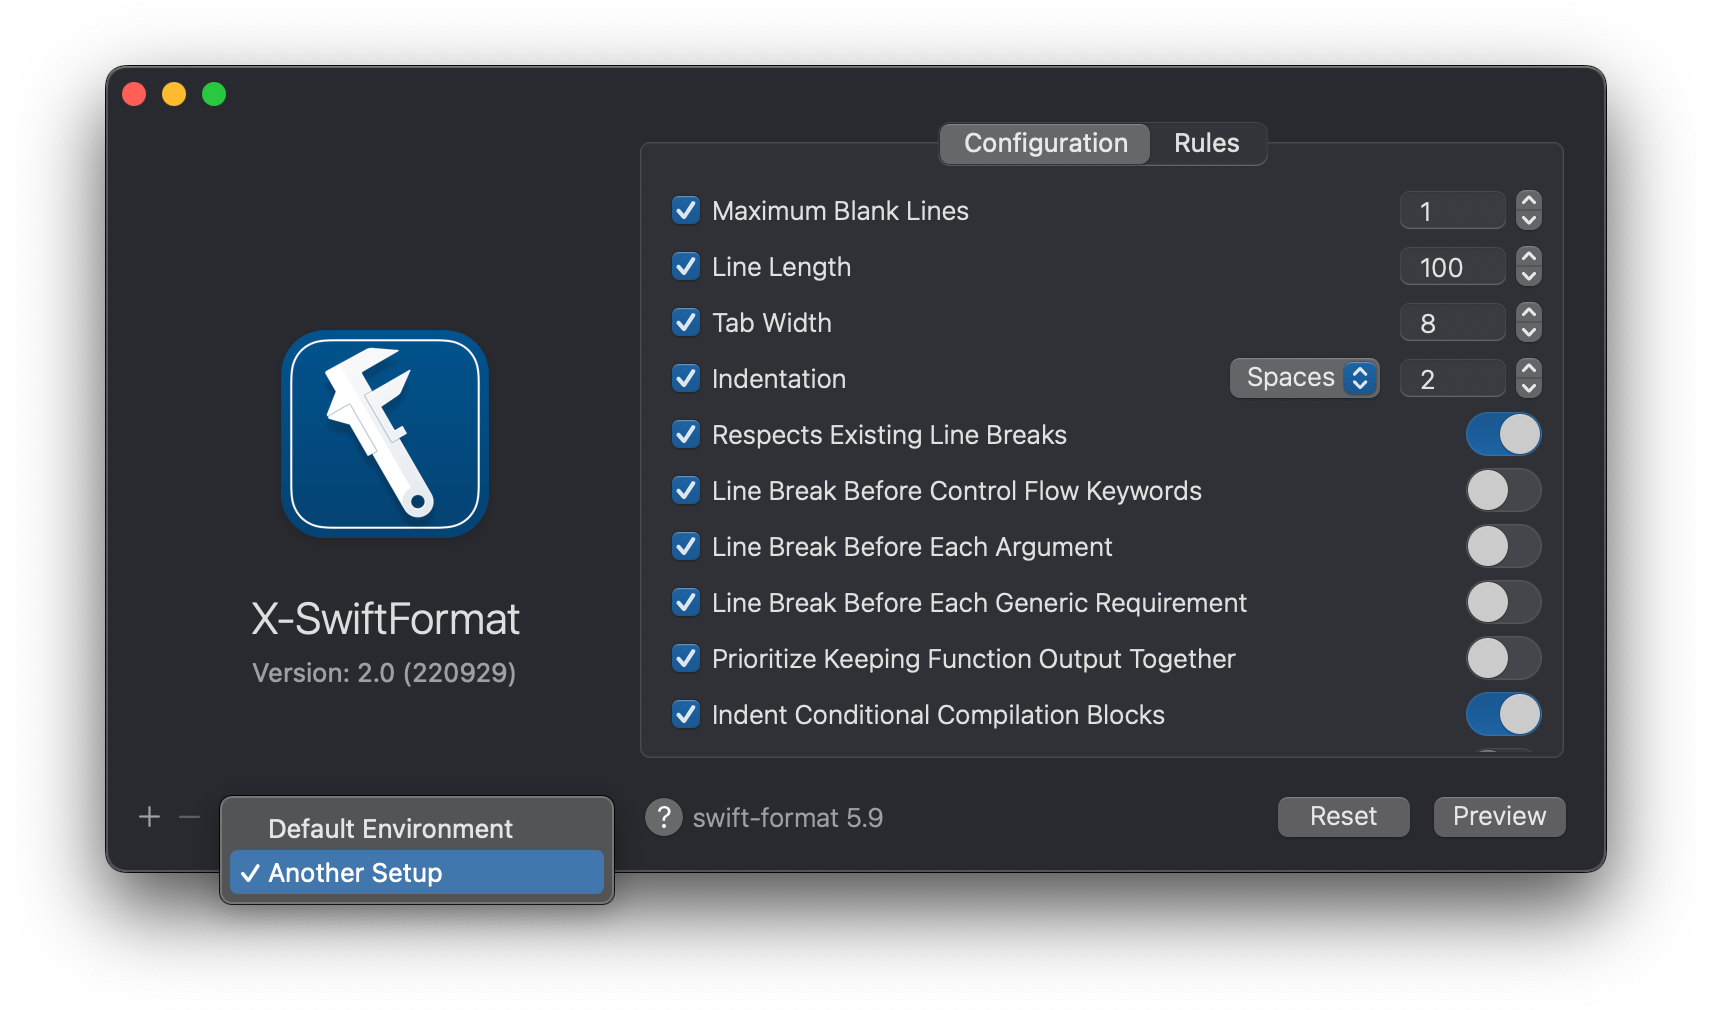
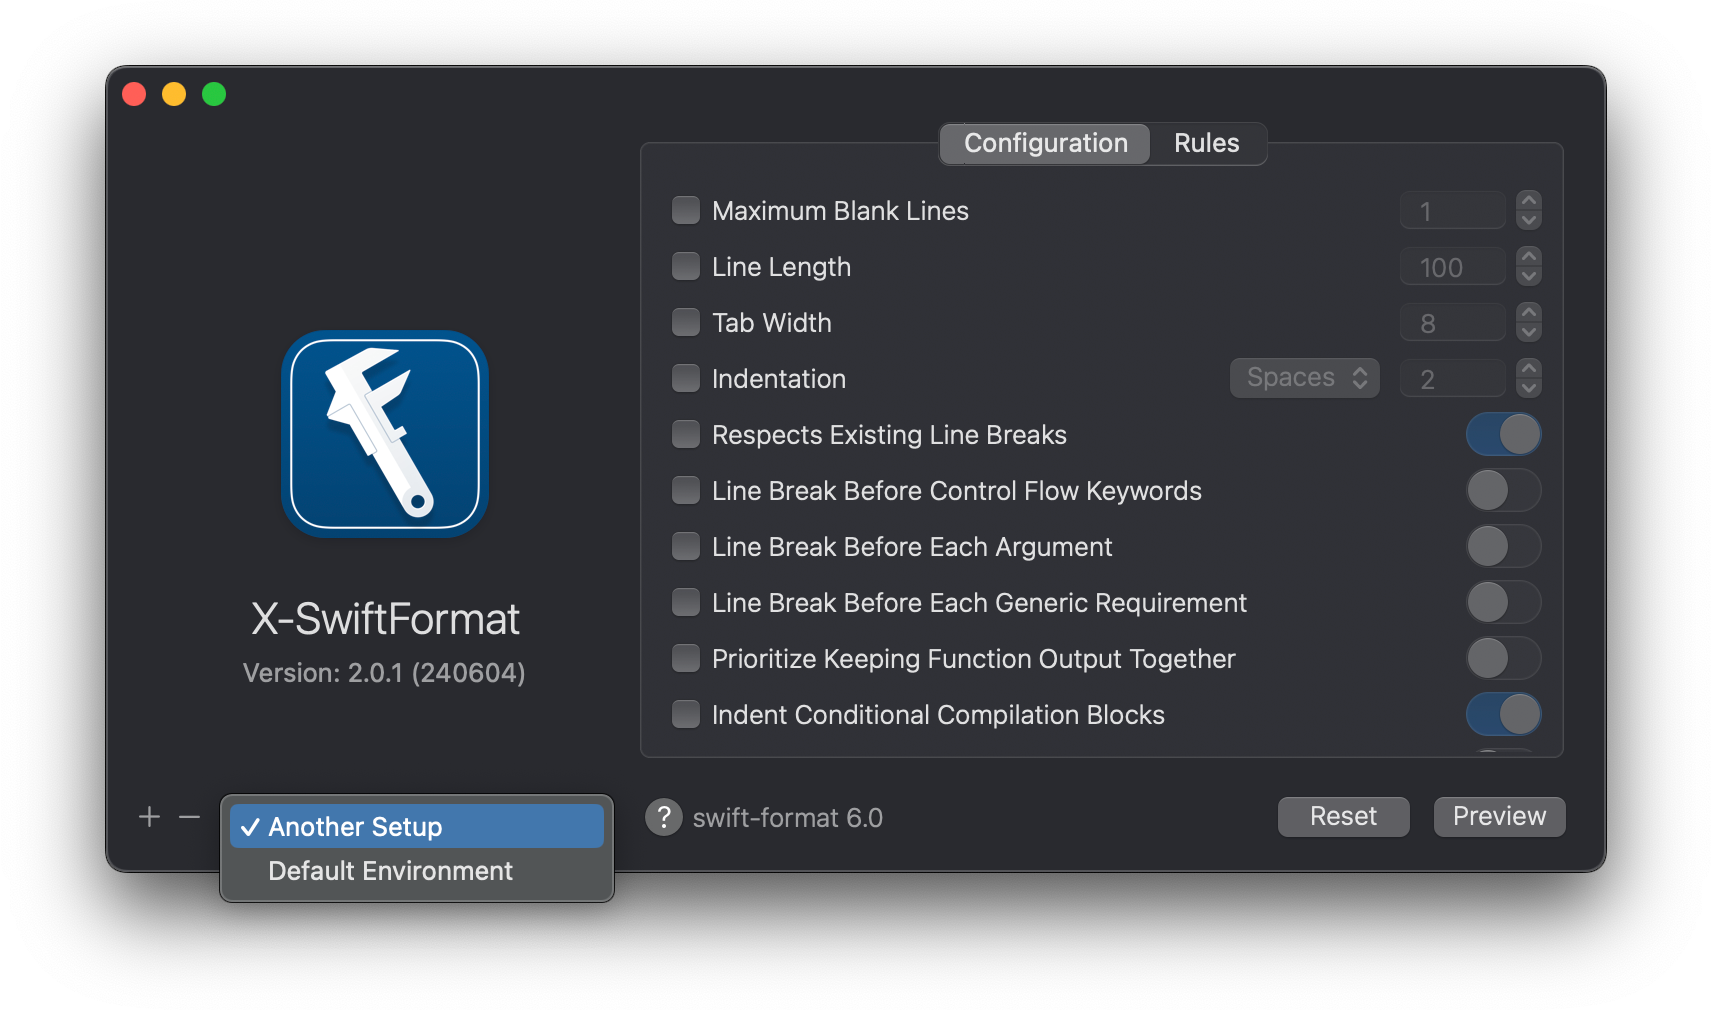
Version 2.0.1

diff --git a/x-swiftformat/X-SwiftFormat-Extension/Source/commands/SourceEditorCommand.swift b/x-swiftformat/X-SwiftFormat-Extension/Source/commands/SourceEditorCommand.swift
@@ -43,7 +43,7 @@ class SourceEditorCommand: NSObject, XCSourceEditorCommand {
 			let configuration = Configuration.buildConfiguration(with: sharedConfiguration.payload)
 			let swiftFormatter = SwiftFormatter(configuration: configuration)
 			var swiftFormatOutputStream = SwiftFormatOutputStream()
-			
+
 			do {
 				try swiftFormatter.format(source: invocation.buffer.completeBuffer, assumingFileURL: nil, to: &swiftFormatOutputStream)
 				if let output = swiftFormatOutputStream.output, invocation.buffer.completeBuffer != output {
@@ -51,9 +51,7 @@ class SourceEditorCommand: NSObject, XCSourceEditorCommand {
 					// Remove all selections to avoid a crash when changing the contents of the buffer.
 					let selections = invocation.buffer.selections.compactMap { $0 as? XCSourceTextRange }
 					invocation.buffer.selections.removeAllObjects()
-					
 					invocation.buffer.completeBuffer = output
-					
 					// Restore selections
 					selections.forEach { selection in
 						invocation.buffer.selections.add(XCSourceTextRange(start: selection.start, end: selection.end))

diff --git a/x-swiftformat/X-SwiftFormat/Source/constants/Constants.swift b/x-swiftformat/X-SwiftFormat/Source/constants/Constants.swift
@@ -4,19 +4,19 @@ import Cocoa
  * swift-format https://github.com/apple/swift-format
  */
 
-let kSwiftFormatVersion = "5.9"
-let kSwiftFormatName = "swift-format 5.9"
+let kSwiftFormatVersion = "6.0"
+let kSwiftFormatName = "swift-format 6.0"
 let kSwiftFormatDescription = "Formatting technology for Swift source code"
-let kSwiftFormatURL = "https://github.com/apple/swift-format/tree/release/5.9"
+let kSwiftFormatURL = "https://github.com/apple/swift-format/tree/release/6.0"
 
 /*
  * swift-syntax https://github.com/apple/swift-syntax
  */
 
-let kSwiftSyntaxVersion = "5.9"
-let kSwiftSyntaxName = "swift-syntax 5.9"
+let kSwiftSyntaxVersion = "6.0"
+let kSwiftSyntaxName = "swift-syntax 6.0"
 let kSwiftSyntaxDescription = "SwiftPM package for SwiftSyntax library."
-let kSwiftSyntaxURL = "https://github.com/apple/swift-syntax/tree/release/5.9"
+let kSwiftSyntaxURL = "https://github.com/apple/swift-syntax/tree/release/6.0"
 
 /*
  * X-SwiftFormat https://github.com/ruiaureliano/X-SwiftFormat

diff --git a/README.md b/README.md
@@ -1,6 +1,6 @@
 # 🛠 X-SwiftFormat
 
-[![](https://img.shields.io/badge/MIT-License-0f73b4.svg)](./LICENSE.md) [![](https://img.shields.io/badge/swift-5.9-0f73b4.svg)](https://swift.org/blog/swift-5.9-released/) [![](https://img.shields.io/badge/docs-2.0-0f73b4.svg)](./DOCS.md)
+[![](https://img.shields.io/badge/MIT-License-0f73b4.svg)](./LICENSE.md) [![](https://img.shields.io/badge/swift-6.0-0f73b4.svg)](https://swift.org/blog/swift-6.0-released/) [![](https://img.shields.io/badge/docs-2.0.1-0f73b4.svg)](./DOCS.md)
 
 ![](./assets/readme/xsf-header.png)
 
@@ -8,7 +8,7 @@
 
 ### Using Github
 
-[![](https://img.shields.io/badge/Download-2.0-0f73b4.svg?logo=github)](https://github.com/ruiaureliano/X-SwiftFormat/releases/download/2.0/x-swiftformat_2.0.zip)
+[![](https://img.shields.io/badge/Download-2.0.1-0f73b4.svg?logo=github)](https://github.com/ruiaureliano/X-SwiftFormat/releases/download/2.0.1/x-swiftformat_2.0.1.zip)
 
 ### Using Cask
 
@@ -57,10 +57,10 @@ Open **System Preferences** ▸ **PKeyboard** ▸ **Keyboard Shortcuts** ▸ **A
 
 ## a) Using Xcode
 
-if you are using **Xcode 15 (Swift 5.9)**, you can check out and build swift-format using the following commands:
+if you are using **Xcode 15 (Swift 6.0)**, you can check out and build swift-format using the following commands:
 
 ```
-git clone -b release/5.9 https://github.com/apple/swift-format.git
+git clone -b release/6.0 https://github.com/apple/swift-format.git
 cd swift-format
 swift build
 ```
@@ -79,17 +79,17 @@ If you did not have **Homebrew**, install [here](https://brew.sh)
 
 ```
 brew install mint
-mint install apple/swift-format@release/5.9
+mint install apple/swift-format@release/6.0
 ```
 
 You should see this
 
 ```
-🌱 Cloning swift-format release/5.9
+🌱 Cloning swift-format release/6.0
 🌱 Resolving package
 🌱 Building package
-🌱 Installed swift-format release/5.9
-🌱 Linked swift-format release/5.9
+🌱 Installed swift-format release/6.0
+🌱 Linked swift-format release/6.0
 ```
 
 👍👍👍
@@ -98,7 +98,7 @@ You should see this
 
 ```
 swift-format -v
-509.0.0
+600.0.0
 ```
 
 | Command                      | Description                                 |

diff --git a/LICENSE.md b/LICENSE.md
@@ -1,12 +1,12 @@
 # ⚖ MIT License
 
-[![](https://img.shields.io/badge/MIT-License-0f73b4.svg)](https://opensource.org/licenses/MIT) [![](https://img.shields.io/badge/swift-5.9-0f73b4.svg)](https://swift.org/blog/swift-5.9-released/) [![](https://img.shields.io/badge/docs-2.0-0f73b4.svg)](./DOCS.md)
+[![](https://img.shields.io/badge/MIT-License-0f73b4.svg)](https://opensource.org/licenses/MIT) [![](https://img.shields.io/badge/swift-6.0-0f73b4.svg)](https://swift.org/blog/swift-6.0-released/) [![](https://img.shields.io/badge/docs-2.0.1-0f73b4.svg)](./DOCS.md)
 
 ![](./assets/readme/xsf-header.png)
 
 ---
 
-## Copyright (c) 2023 Rui Aureliano
+## Copyright (c) 2024 Rui Aureliano
 
 Permission is hereby granted, free of charge, to any person obtaining a copy of this software and associated documentation files (the "Software"), to deal in the Software without restriction, including without limitation the rights to use, copy, modify, merge, publish, distribute, sublicense, and/or sell copies of the Software, and to permit persons to whom the Software is furnished to do so, subject to the following conditions:
 

diff --git a/DOCS.md b/DOCS.md
@@ -1,6 +1,6 @@
 # 👨🏫 Docs
 
-[![](https://img.shields.io/badge/MIT-License-0f73b4.svg)](./LICENSE.md) [![](https://img.shields.io/badge/swift-5.9-0f73b4.svg)](https://swift.org/blog/swift-5.9-released/) [![](https://img.shields.io/badge/docs-2.0-0f73b4.svg)](./DOCS.md)
+[![](https://img.shields.io/badge/MIT-License-0f73b4.svg)](./LICENSE.md) [![](https://img.shields.io/badge/swift-6.0-0f73b4.svg)](https://swift.org/blog/swift-6.0-released/) [![](https://img.shields.io/badge/docs-2.0.1-0f73b4.svg)](./DOCS.md)
 
 ![](./assets/readme/xsf-header.png)
 
